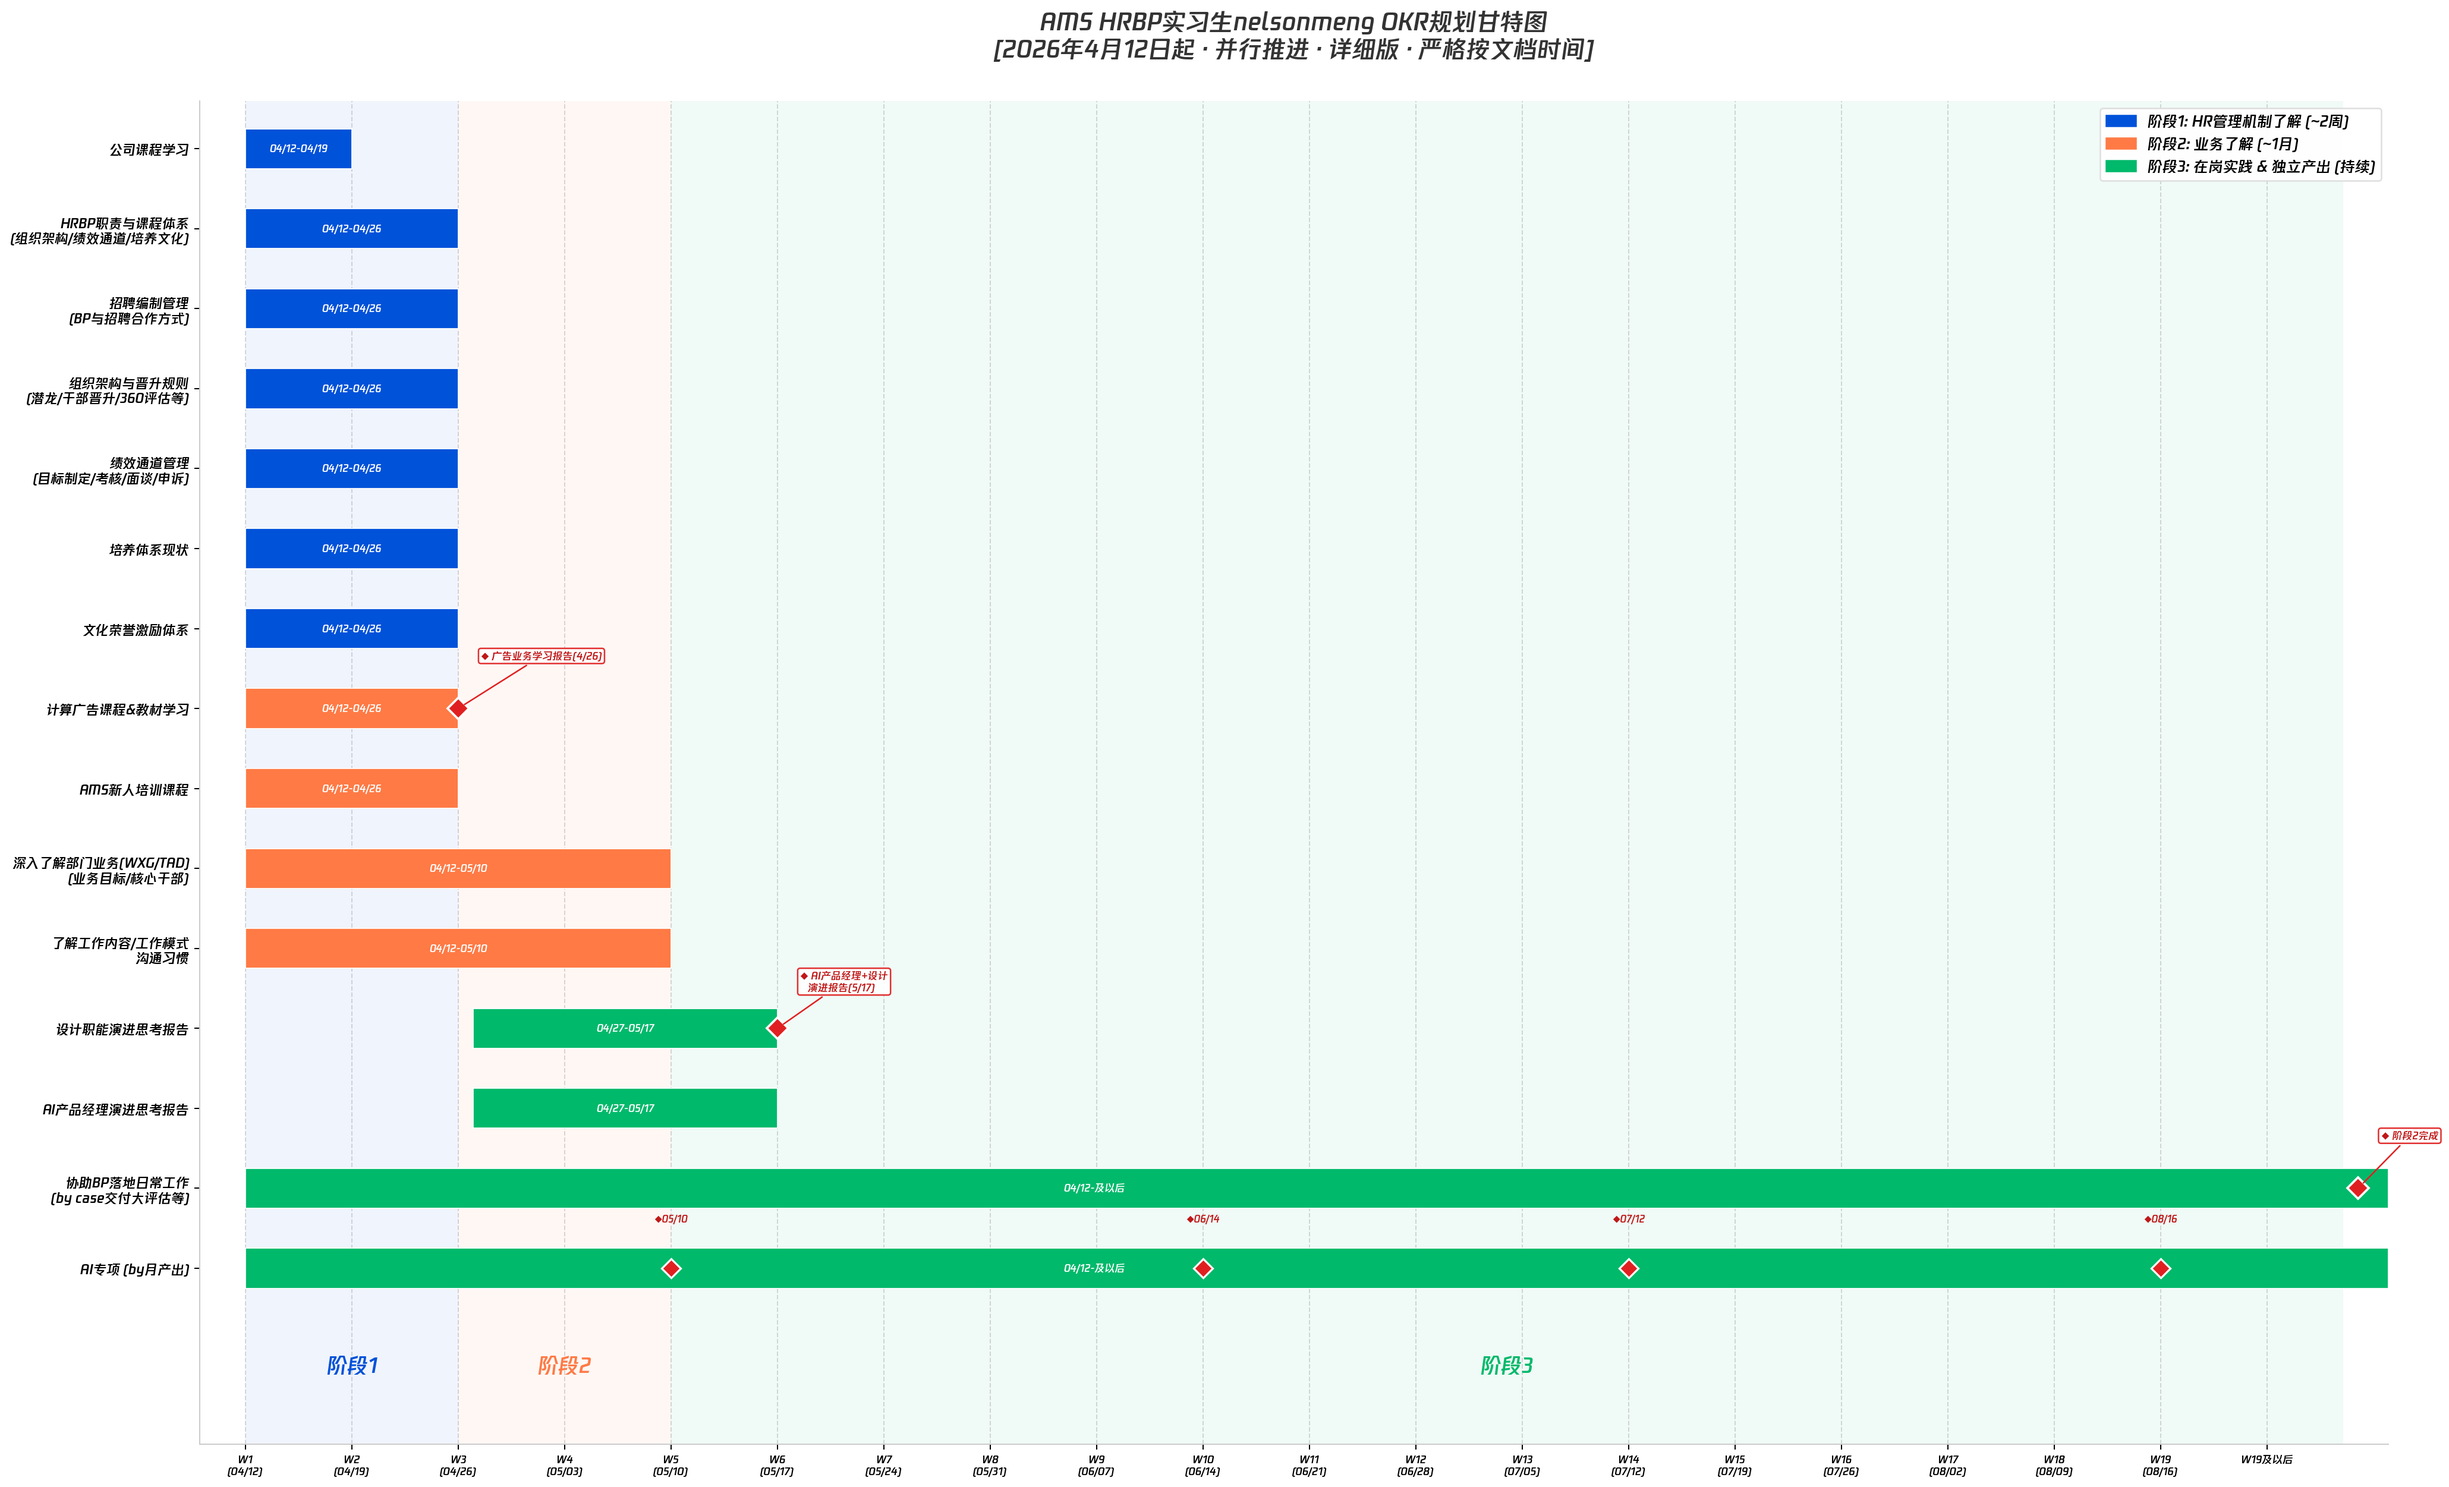
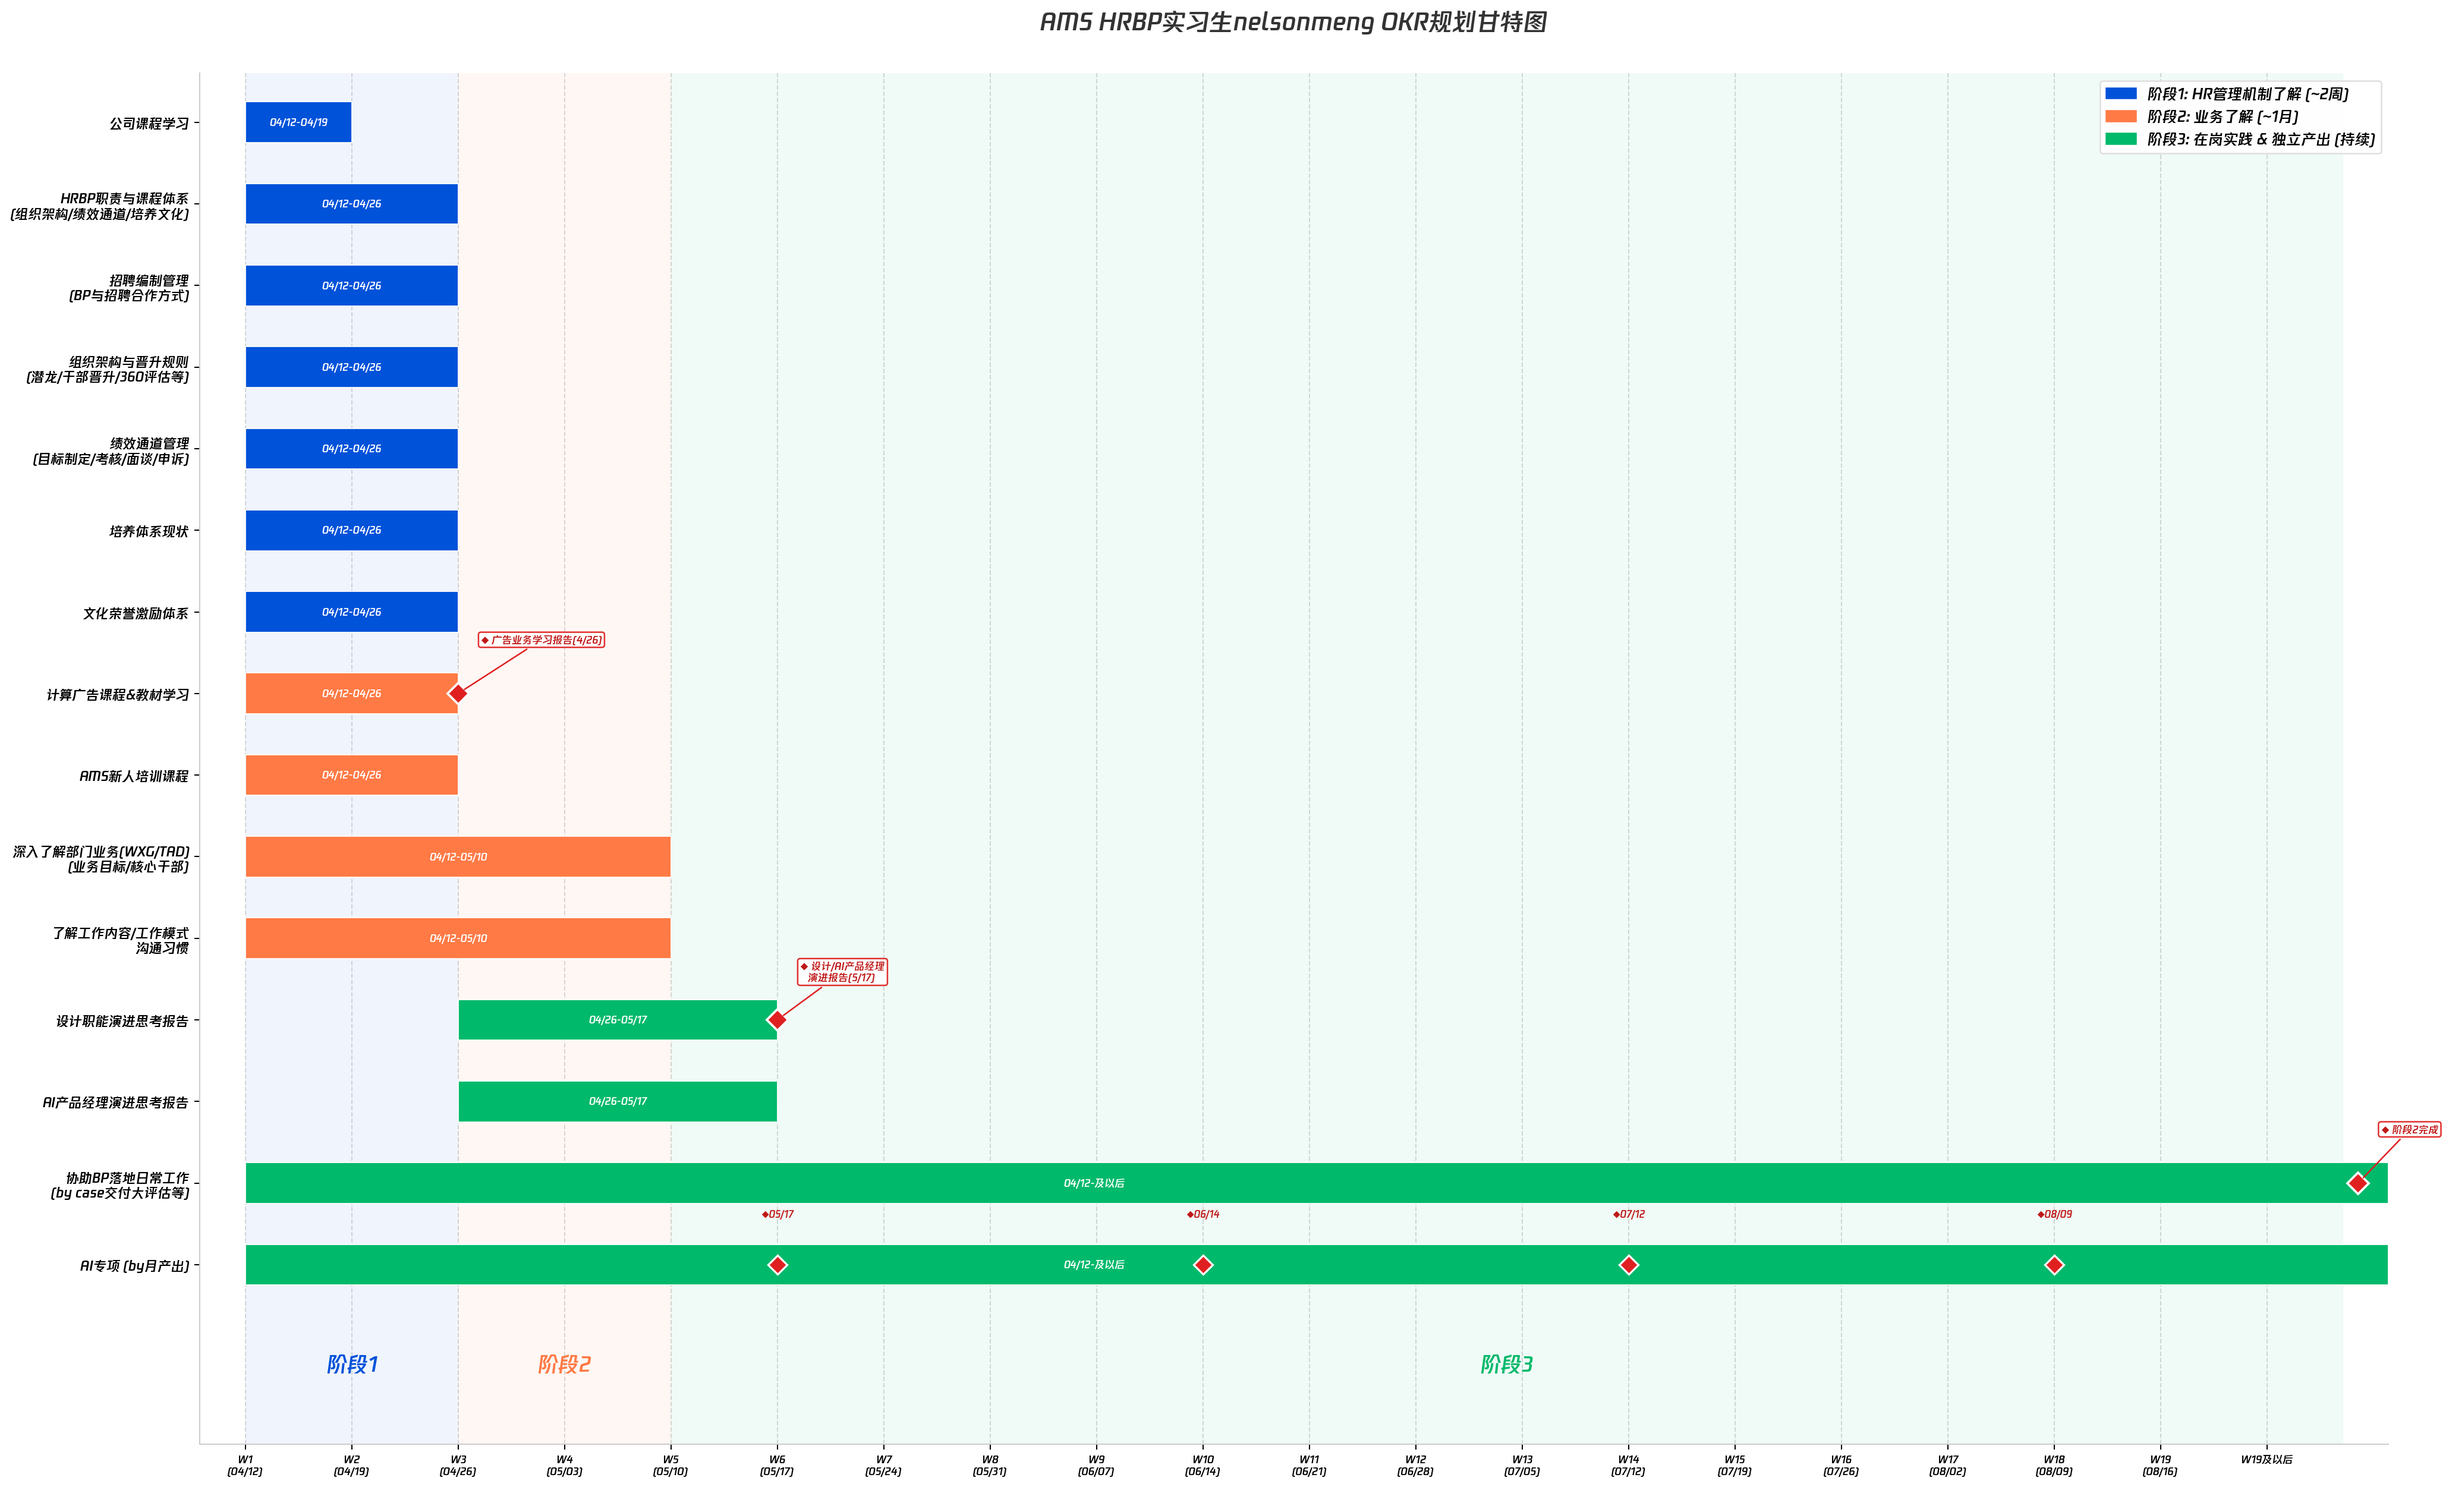
fix: AI交付点改为5/17起+设计/AI产品报告改为4/26开始+标题精简

diff --git a/gantt_v9.py b/gantt_v9.py
@@ -41,9 +41,9 @@ tasks_raw = [
     ("了解工作内容/工作模式\n沟通习惯", "04-12", "05-10", "#FF7A45", None),
 
     # ====== 阶段3 ======
-    ("设计职能演进思考报告", "04-27", "05-17", "#00B96B",
-     "◆ AI产品经理+设计\n   演进报告(5/17)"),
-    ("AI产品经理演进思考报告", "04-27", "05-17", "#00B96B", None),
+    ("设计职能演进思考报告", "04-26", "05-17", "#00B96B",
+     "◆ 设计/AI产品经理\n   演进报告(5/17)"),
+    ("AI产品经理演进思考报告", "04-26", "05-17", "#00B96B", None),
     ("协助BP落地日常工作\n(by case交付大评估等)", "04-12", None, "#00B96B",
      "◆ 阶段2完成"),
     # AI专项: 4个独立交付节点
@@ -91,7 +91,7 @@ for i, (name, start, end, color, milestone) in enumerate(tasks):
     # ========== 里程碑标记 ==========
     if milestone == "__MILESTONES__":
         # ★ AI专项：在坐标轴上逐一标出4个月度交付点
-        ai_dates = ["05-10", "06-14", "07-12", "08-16"]
+        ai_dates = ["05-17", "06-14", "07-12", "08-09"]
         for d_str in ai_dates:
             d = parse_d(d_str)
             mx = (d - PLOT_START).days
@@ -164,8 +164,7 @@ leg.get_frame().set_alpha(0.95)
 
 # 标题
 ax.set_title(
-    'AMS HRBP实习生nelsonmeng OKR规划甘特图\n'
-    '[2026年4月12日起 · 并行推进 · 详细版 · 严格按文档时间]',
+    'AMS HRBP实习生nelsonmeng OKR规划甘特图',
     fontproperties=font_prop, fontsize=16, fontweight='bold',
     color='#333333', pad=30)
 
